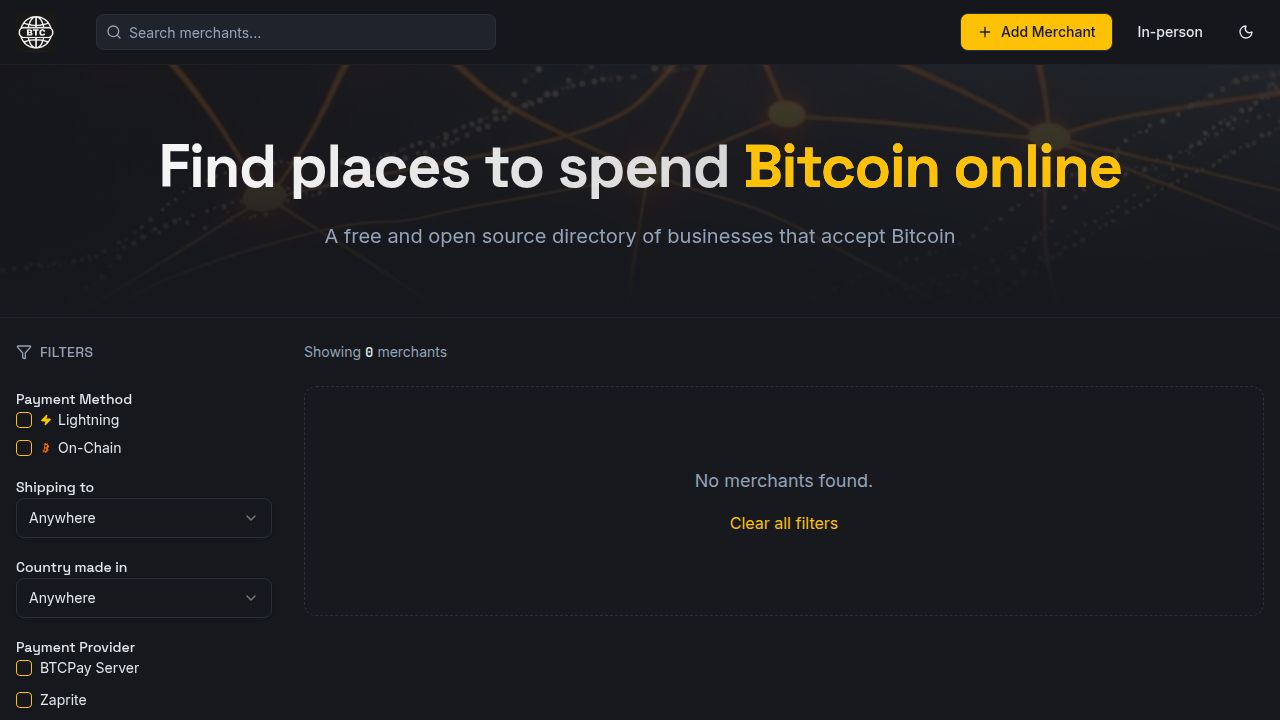
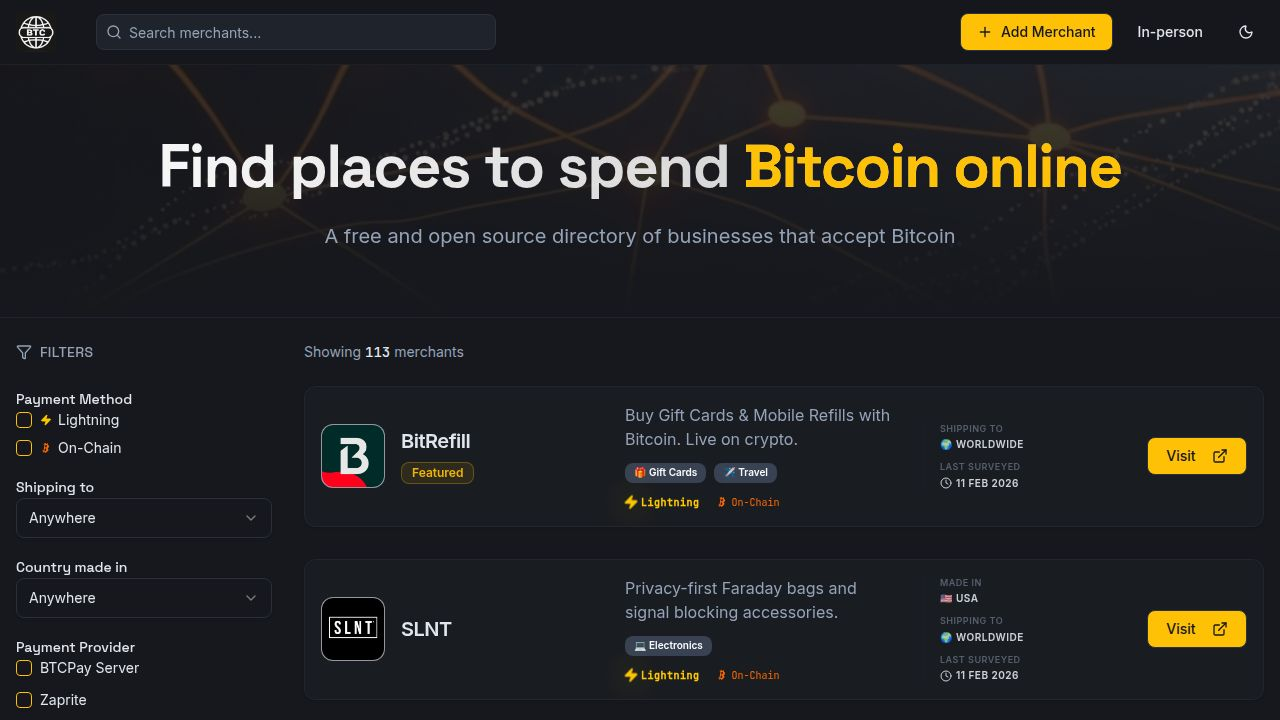
Add last surveyed date to merchant information display
Adds `lastSurveyed` text column to the `merchants` table in `shared/schema.ts` and displays this date on the merchant card component in `client/src/components/merchant-card.tsx`.

Replit-Commit-Author: Agent
Replit-Commit-Session-Id: 270ebf68-5538-466f-b15a-78a0c3cc9a24
Replit-Commit-Checkpoint-Type: full_checkpoint
Replit-Commit-Event-Id: 76e74f3f-225e-403d-8fde-115b1e7b5014
Replit-Commit-Screenshot-Url: https://storage.googleapis.com/screenshot-production-us-central1/836d56c9-18a9-46ad-9972-6a9fa87541a8/270ebf68-5538-466f-b15a-78a0c3cc9a24/I67am8A
Replit-Helium-Checkpoint-Created: true

diff --git a/client/src/components/merchant-card.tsx b/client/src/components/merchant-card.tsx
@@ -6,7 +6,7 @@ import {
   CardTitle,
 } from "@/components/ui/card";
 import { type Merchant } from "@shared/schema";
-import { ExternalLink, Zap, Bitcoin } from "lucide-react";
+import { ExternalLink, Zap, Bitcoin, Clock } from "lucide-react";
 
 interface MerchantCardProps {
   merchant: Merchant;
@@ -311,6 +311,15 @@ export default function MerchantCard({ merchant }: MerchantCardProps) {
                   </span>
                 </div>
               )}
+            </div>
+          )}
+          {merchant.lastSurveyed && (
+            <div className="flex flex-col gap-0.5 text-[10px] uppercase tracking-wider font-semibold text-muted-foreground/70">
+              <span className="text-[9px] opacity-70">Last Surveyed</span>
+              <span className="text-foreground/90 flex items-center gap-1" data-testid={`text-last-surveyed-${merchant.id}`}>
+                <Clock className="h-3 w-3" />
+                {new Date(merchant.lastSurveyed).toLocaleDateString("en-GB", { day: "numeric", month: "short", year: "numeric" })}
+              </span>
             </div>
           )}
         </div>

diff --git a/shared/schema.ts b/shared/schema.ts
@@ -17,6 +17,7 @@ export const merchants = pgTable("merchants", {
   featured: boolean("featured").default(false),
   countryMadeIn: text("country_made_in"),
   countryShippedFrom: text("country_shipped_from"),
+  lastSurveyed: text("last_surveyed"),
 });
 
 export const insertMerchantSchema = createInsertSchema(merchants).omit({
